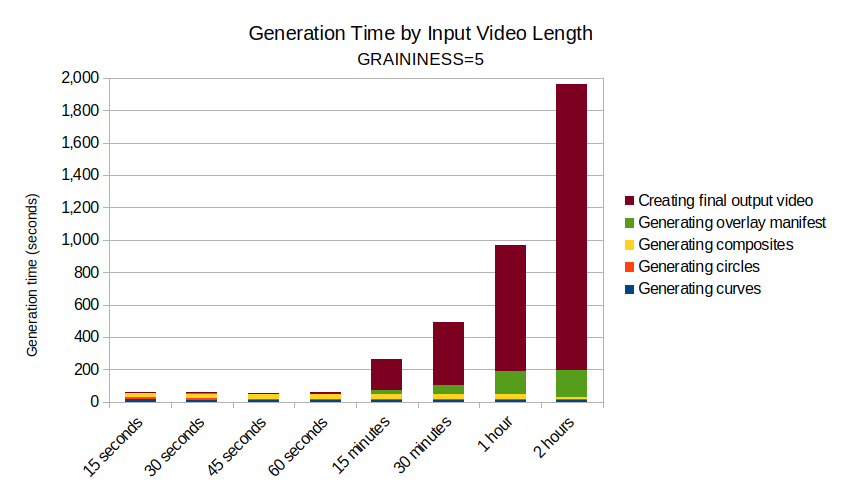
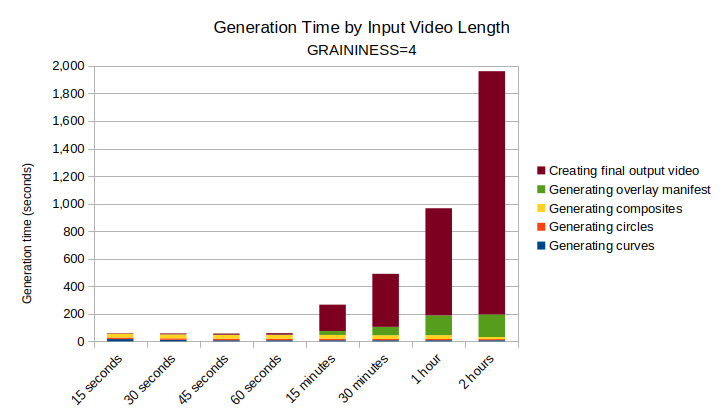
Normalized the GRAININESS and added FRAMERATE parameter with defaults. Updated README.

diff --git a/README.md b/README.md
@@ -63,8 +63,9 @@ docker run --rm -v <host path to media assets>:/data <image name> -i=/data/<inpu
 |---|---|---|---|
 | `-i=, --input=` | Yes | n/a | Path to the source video file |
 | `-o=, --output=` | Yes | n/a | Path to the output video file |
-| `-g=, --graininess=` | No | `5` | Integer (2 - 5) controlling the intensity of the graininess effect |
+| `-g=, --graininess=` | No | `4` | Integer (1 - 4) controlling the intensity of the graininess effect |
 | `-a=, --opacity=` | No | `0.35` | Float value (0.0 - 1.0) controlling the opacity of the layover |
+| `-f=, --framerate=` | No | source framerate | Float controlling the grain overlay framerate in fps; values below the source framerate make grain change more slowly |
 | `-p=, --parameters=` | No | empty | Additional flags passed to ffmpeg during the final encode step |
 
 > **Note:** By default, the script encodes only the first video stream for a given input. `-map 0:a?` or a similar parameter set is required to include additional streams in the output.
@@ -87,6 +88,11 @@ With specific graininess and specific opacity:
 ./create-filmgrain.sh -i=input.mp4 -o=output.mp4 -g=3 -a=0.4
 ```
 
+
+With a slower grain framerate (grain changes at 12 fps regardless of source framerate):
+```bash
+./create-filmgrain.sh -i=input.mp4 -o=output.mp4 -f=12
+```
 
 With additional ffmpeg flags:
 ```bash
@@ -115,9 +121,7 @@ Overlay images are generated at `W_GEN x H_GEN` and scaled to match the source v
 
 ## Output
 
-The script produces a single video file (typically an H.264 `.mp4`) at the source video's original resolution, framerate, and duration, with the grain layer at 35% opacity.
-
-> **Note:** The opacity level may be made configurable in the future.
+The script produces a single video file (typically an H.264 `.mp4`) at the source video's original resolution, framerate, and duration, with the grain layer blended at the specified opacity.
 
 ---
 
@@ -125,14 +129,15 @@ The script produces a single video file (typically an H.264 `.mp4`) at the sourc
 
 - Input must be a video format readable by ffmpeg (and ffprobe)
 - Audio and other streams are passed through only if `-map 0:a? -c:a copy` is included in `additional_ffmpeg_params`. Additional preferences for the ffmpeg encoding can ba passed in this argument as well.
-- `GRAININESS` must be numeric and between 2 and 5
+- `GRAININESS` must be numeric and between 1 and 4
 - `OPACITY` must be numeric and between 0.0 and 1.0
+- `FRAMERATE` must be a positive number and must not exceed the source video framerate
 
 ---
 
 ## Performance
 
-Generation time scales with `POOL_BEZIER`, `POOL_CIRCLES`, `MAX_COMPOSITES`,  the `GRAININESS`parameter and the length and framerate of the video specified by the`input`parameter — the defaults are tuned for a balance of variety and speed and may be tweaked in the future. The length of the video specified by the `input` parameter accounts for the generation time of the output manifest, up to 8.33%, and the generation of the final output accounts, up to 89.86%, of the total variance. Results for `GRAININESS=5` are displayed below:
+Generation time scales with `POOL_BEZIER`, `POOL_CIRCLES`, `MAX_COMPOSITES`,  the `GRAININESS`parameter and the length and framerate of the video specified by the`input`parameter — the defaults are tuned for a balance of variety and speed and may be tweaked in the future. The length of the video specified by the `input` parameter accounts for the generation time of the output manifest, up to 8.33%, and the generation of the final output accounts, up to 89.86%, of the total variance. Results for `GRAININESS=4` are displayed below:
 
 ![Performance graph](assets/performance_graph.png)
 
@@ -142,19 +147,19 @@ Generation time scales with `POOL_BEZIER`, `POOL_CIRCLES`, `MAX_COMPOSITES`,  th
 
 The script mimics the behavior of film grain dust and scratches by generating imagery according to a subjective pseudo-random algorithm, subject to the following:
 
-$$N_A, N_B \in \left[\left\lfloor \frac{GRAININESS}{2} \right\rfloor,\ 2\left\lfloor \frac{GRAININESS}{2} \right\rfloor - 1\right]$$
+$$N_A, N_B \in \left[\left\lfloor \frac{(GRAININESS + 1)}{2} \right\rfloor,\ 2\left\lfloor \frac{(GRAININESS + 1)}{2} \right\rfloor - 1\right]$$
 
 $$[CurvesPool]^{N_A} \times [CirclesPool]^{N_B}$$
 
 Where $CurvesPool$ and $CirclesPool$ are currently set to 50.
 
-Therefore, at`GRAININESS=2`,  the number of unique possible images from which the composites can be generated is:
+Therefore, at`GRAININESS=1`,  the number of unique possible images from which the composites can be generated is:
 $$50^1 \times 50^1 = 2{,}500$$
 
-And at`GRAININESS=5`the upper bound is:
+And at`GRAININESS=4`the upper bound is:
 $$50^3 \times 50^3 \approx 1.56 \times 10^{10}$$
 
-The series of 50 curves and 50 circles are shuffled to a pseudo-random order, following the [Fisher-Yates method](https://en.wikipedia.org/wiki/Fisher%E2%80%93Yates_shuffle). Additional shuffled sequences are created until a set is created that is sufficient to allow for `MAX_COMPOSITES` frames, each with up to 3 source images, such as would be required at `GRAININESS=5`.
+The series of 50 curves and 50 circles are shuffled to a pseudo-random order, following the [Fisher-Yates method](https://en.wikipedia.org/wiki/Fisher%E2%80%93Yates_shuffle). Additional shuffled sequences are created until a set is created that is sufficient to allow for `MAX_COMPOSITES` frames, each with up to 3 source images, such as would be required at `GRAININESS=4`.
 
 `MAX_COMPOSITES`(currently 720) composite frames are built by sampling between 1 and 3 source images from the set of shuffled sequences. This number of frames was chosen to target a maximum gap between repeats of 30 seconds at 24 fps.
 
@@ -184,24 +189,22 @@ Generating this many frames would be prohibitively expensive with regard to perf
 #### 🟪 ${\color{purple}\textsf{Completed}}$
 - ~~Make grain opacity configurable with a command-line argument and defaulting~~
     - ~~Goal: Increase **realistic look** and further **reduce the need for more sophisticated video-editing** software~~
+- ~~Revise guardrails, as appropriate~~
+    - ~~Goal: Improve the **usability** and **reduce the need for more sophisticated video-editing** software~~
+    - ~~Normalize all existing parameters, e.g. `GRAININESS`~~
+- ~~Make the overlay durations configurable to allow for the appearance of a slower framerate~~
+    - ~~Goal: Increase **realistic look** and further **reduce the need for more sophisticated video-editing** software~~
+    - ~~Implemented `-f=`/`--framerate=` as an optional command-line argument~~
 
 #### 🟩 ${\color{green}\textsf{Now}}$
-- Make the overlay durations configurable to allow for the appearance of a slower framerate
-    - Goal: Increase **realistic look** and further **reduce the need for more sophisticated video-editing** software
-    - Implement FRAMERATE command-line argument as optional argument
-    - Add default value
-    - Add guardrails for user inputs
-    - Incorporate the value into the manifest generation section
-    - Add an explanation to the helper function
-    - Update the README
 
 
 #### 🟦 ${\color{blue}\textsf{Next}}$
-- Add additional guardrails, as appropriate
-    - Goal: Improve the **usability** and **reduce the need for more sophisticated video-editing** software
-    - Normalize all existing parameters, e.g. `GRAININESS`
+
 
 #### 🟧 ${\color{orange}\textsf{Later}}$
+- Add additional guardrails, as appropriate
+    - Goal: Improve the **usability** and **reduce the need for more sophisticated video-editing** software
 - Improve performance and throughput
      - Goal: Improve the ability to run in a **performant way**
      - Objectives and measures TBD
